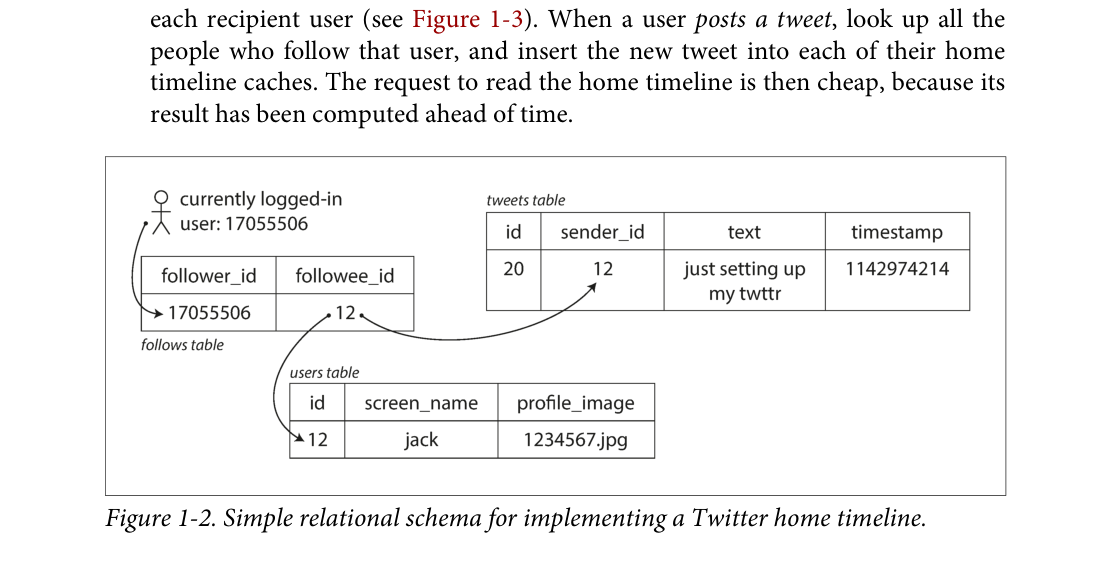
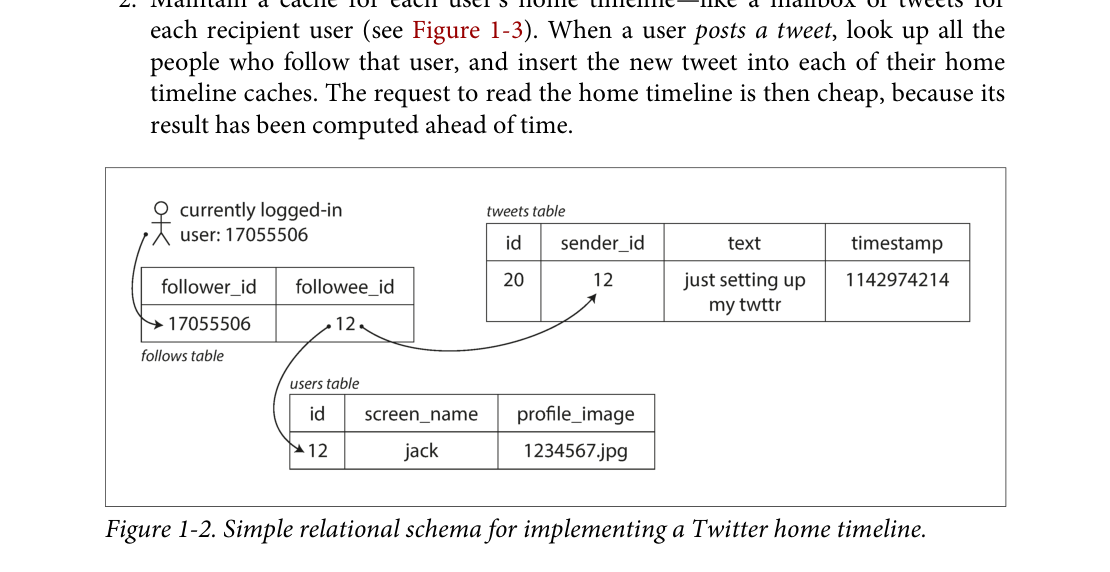
fix(tools): figure crop 의 over/under-crop 해결 — multi-caption + text-aware
문제:
  - 같은 페이지에 figure 2개일 때 (DDIA p.34 Fig 1-2, 1-3) "caption 위쪽
    모든 vector drawing 합집합" 알고리즘이 두 figure 를 *섞어서* crop
  - vector 만 보고 text block 무시 → axis label / legend 같은 figure 의
    *텍스트 라벨* 이 잘림 (Fig 1-4 의 백분위 그래프 축 라벨)
  - margin filter 가 figure 의 가장자리 element 도 제외

해결 (extract_figures.py):
  - _find_all_caption_blocks: 페이지의 모든 caption 위치를 위→아래 매핑
  - _figure_bbox: 현재 caption 의 region 을 (이전 caption bottom, 현재
    caption top) 사이로 *상하 분리*. 한 페이지의 figure 들이 서로
    섞이지 않음
  - _content_in_band: vector drawing + text block 모두 합집합. 단,
    가로 전체 얇은 선 (header rule) 과 큰 본문 paragraph 는 제외

영향:
  - DDIA Ch 1 figures 5개 모두 재추출
  - Fig 1-3 (이전 87kB) → 127kB: Fig 1-2 와 분리되며 자기 영역 완전
  - Fig 1-4 (이전 91kB) → 171kB: 백분위 그래프의 축 라벨 포함
  - API signature 유지 (extract_figure, extract_figures), MR 기존 figure
    추출도 동일 동작 (단일 caption 페이지에선 결과 동일·강건성만 향상)

diff --git a/tools/extract_figures.py b/tools/extract_figures.py
@@ -42,38 +42,102 @@ def _find_caption(page, caption_prefix):
     return None, None
 
 
-def _figure_bbox(page, cap_bbox, cap_block_rect, margin_top=60, margin_bottom=50):
-    """캡션 위쪽의 drawing 합집합 + 캡션 자체를 포함하는 figure bbox 추정."""
-    page_h = page.rect.y1
-    valid = []
+def _find_all_caption_blocks(page, caption_marker="Figure "):
+    """페이지의 모든 figure caption block rect 를 위→아래 순으로 반환.
+
+    같은 페이지에 figure 가 여러 개일 때 각 figure 의 영역을 *상하 분리* 하기 위함.
+    """
+    blocks = []
+    for blk in page.get_text("dict")["blocks"]:
+        for line in blk.get("lines", []):
+            txt = "".join(s["text"] for s in line["spans"])
+            if txt.startswith(caption_marker) and "." in txt[:20]:
+                blocks.append(fitz.Rect(blk["bbox"]))
+                break
+    blocks.sort(key=lambda r: r.y0)
+    return blocks
+
+
+def _content_in_band(page, y_top, y_bot, x_inset=10):
+    """[y_top, y_bot] 세로 band 안의 vector drawing + text block bbox 들 반환.
+
+    figure 의 vector 본체뿐 아니라 *축 라벨·legend* 같은 text block 도 포함하여
+    under-crop 을 막는다.
+    """
+    rects = []
+    page_w = page.rect.x1
+    min_dim = 0.5
     for d in page.get_drawings():
         r = d["rect"]
-        if r.y0 < margin_top or r.y1 > page_h - margin_bottom:
+        if r.width < min_dim or r.height < min_dim:
             continue
-        if r.width < 0.5 or r.height < 0.5:
+        if r.y0 < y_top - 1 or r.y1 > y_bot + 1:
             continue
-        # 캡션 아래의 drawing 은 제외 (figure 는 캡션 위 가정)
-        if r.y0 > cap_bbox[3] + 2:
+        # 페이지 가로 전체에 걸친 *얇은* 선 (header/footer rule, separator) 제외
+        if r.height < 1.0 and r.width > page_w * 0.7:
             continue
-        valid.append(r)
+        rects.append(r)
 
-    if not valid:
+    for blk in page.get_text("dict")["blocks"]:
+        if blk.get("type") != 0:
+            continue
+        br = fitz.Rect(blk["bbox"])
+        if br.width < 1 or br.height < 1:
+            continue
+        if br.y0 < y_top - 1 or br.y1 > y_bot + 1:
+            continue
+        # caption 이외의 *큰 본문 paragraph* 는 제외 — 너무 폭이 넓고 키도 크면 본문 가능성
+        if br.width > page_w - 2 * x_inset - 5 and br.height > 30:
+            continue
+        rects.append(br)
+    return rects
+
+
+def _figure_bbox(page, cap_bbox, cap_block_rect, page_top_margin=60, page_bot_margin=50):
+    """캡션 위의 figure 영역 bbox 추정.
+
+    페이지 내 *모든 caption* 을 찾아, 현재 caption 의 figure region 을
+    (이전 caption block 의 bottom, 현재 caption block 의 top) 사이로 제한.
+    이 영역 안의 vector drawing + text block 의 합집합 + caption block 자체.
+    """
+    page_h = page.rect.y1
+    all_caps = _find_all_caption_blocks(page)
+    cur_idx = None
+    for i, r in enumerate(all_caps):
+        if abs(r.y0 - cap_block_rect.y0) < 1 and abs(r.y1 - cap_block_rect.y1) < 1:
+            cur_idx = i
+            break
+
+    if cur_idx is not None and cur_idx > 0:
+        region_top = all_caps[cur_idx - 1].y1 + 2
+    else:
+        region_top = page_top_margin
+    region_bot = cap_block_rect.y0 - 1
+
+    if region_bot - region_top < 10:
+        region_top = max(page_top_margin, cap_bbox[1] - 350)
+        region_bot = cap_block_rect.y0 - 1
+
+    rects = _content_in_band(page, region_top, region_bot)
+
+    if not rects:
         return fitz.Rect(
             page.rect.x0 + 30,
-            cap_bbox[1] - 200,
+            max(page_top_margin, cap_bbox[1] - 300),
             page.rect.x1 - 30,
             cap_block_rect.y1 + 10,
         )
 
-    fig_rect = valid[0]
-    for r in valid[1:]:
+    fig_rect = rects[0]
+    for r in rects[1:]:
         fig_rect = fig_rect | r
     fig_rect = fig_rect | cap_block_rect
+
     return fitz.Rect(
-        fig_rect.x0 - 5,
-        fig_rect.y0 - 5,
-        fig_rect.x1 + 5,
-        fig_rect.y1 + 10,
+        max(page.rect.x0 + 2, fig_rect.x0 - 6),
+        max(page_top_margin - 5, fig_rect.y0 - 6),
+        min(page.rect.x1 - 2, fig_rect.x1 + 6),
+        min(page_h - page_bot_margin + 5, fig_rect.y1 + 10),
     )
 
 
